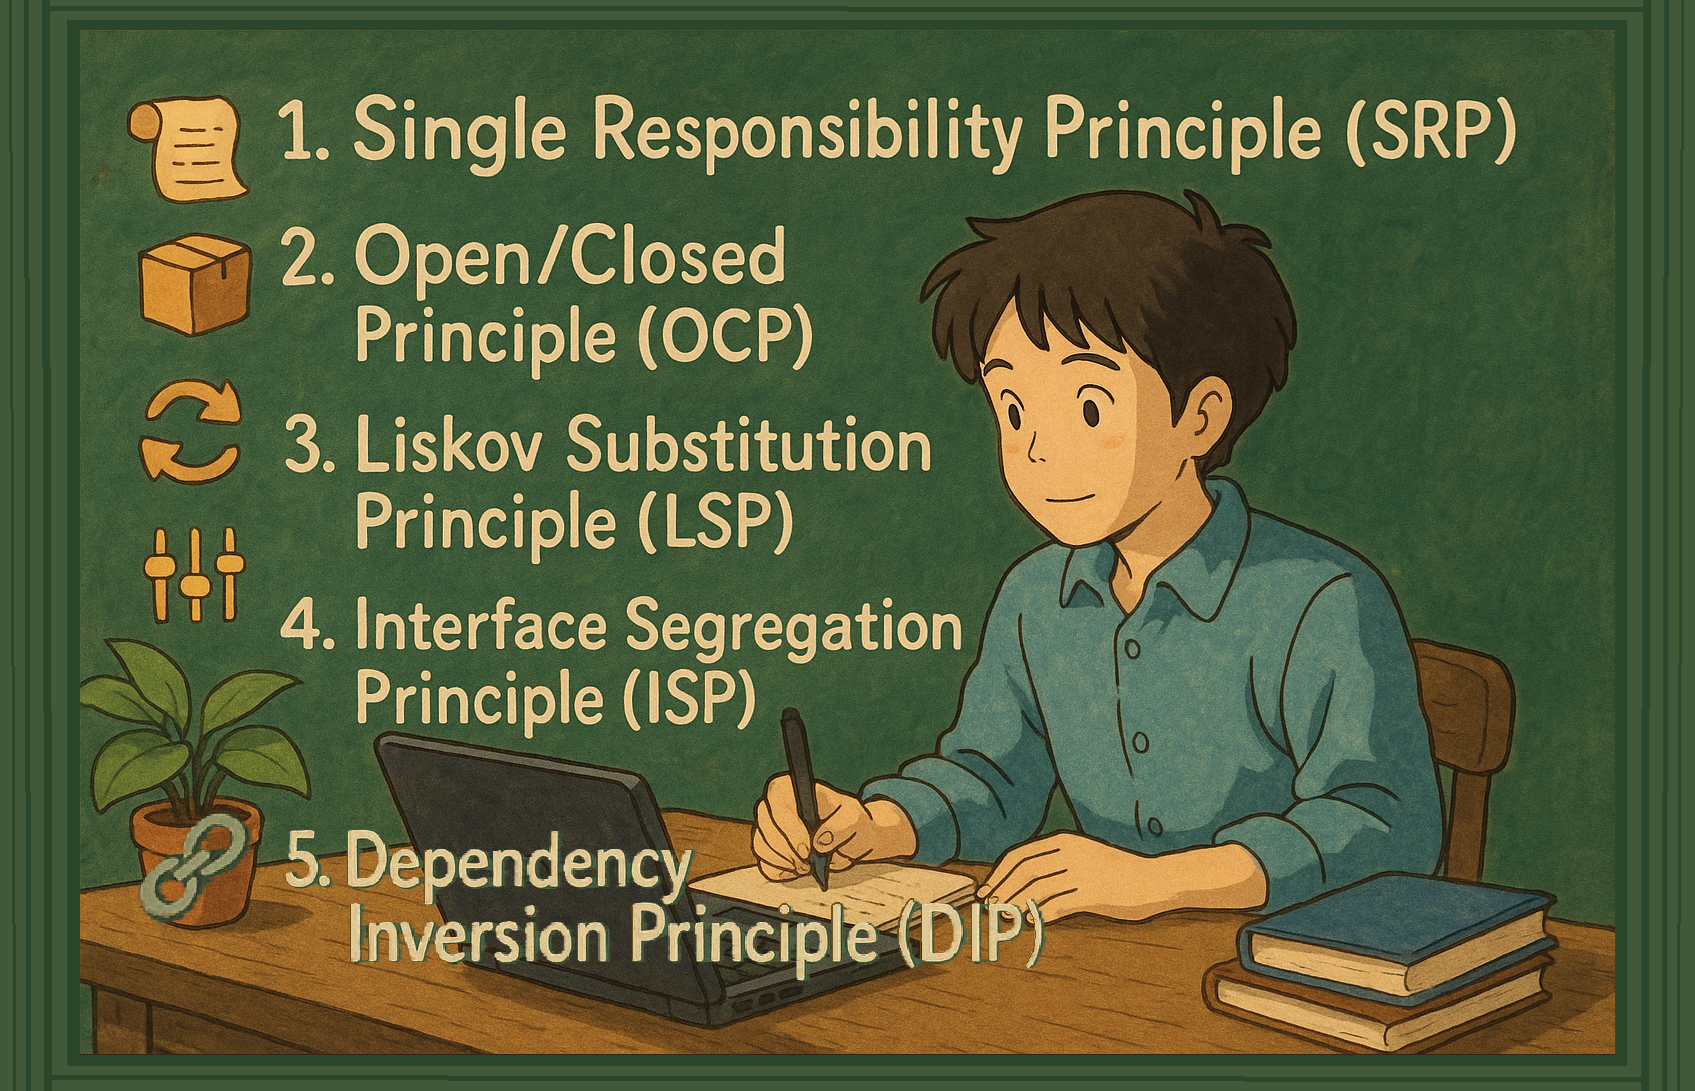
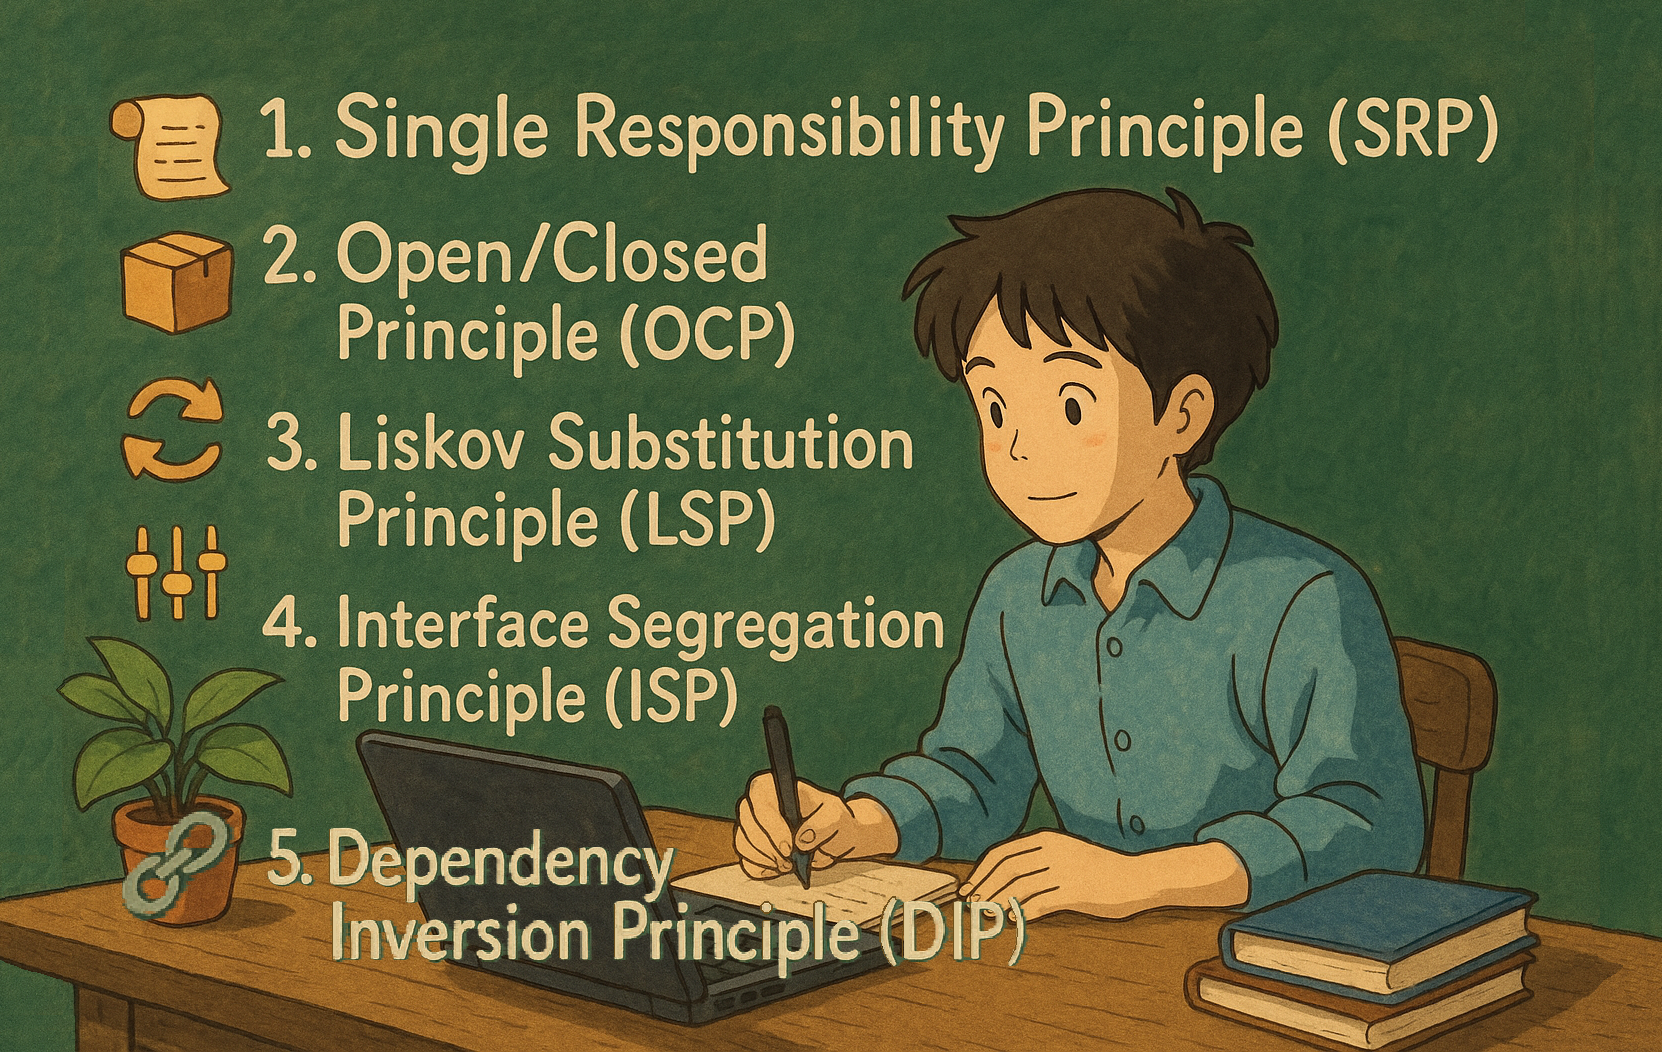
Create compressed version for the images to make blog.html lighter to load

diff --git a/content/blog/2024-10-04-optimizing-microfrontends-with-turborepo.md b/content/blog/2024-10-04-optimizing-microfrontends-with-turborepo.md
@@ -5,7 +5,7 @@ description = "Use Turborepo to improve microfrontend workflows with parallel ta
 [taxonomies]
 tags = ["architecture", "frontend"]
 [extra]
-cover_image = "/images/blog/2024-10-04-optimizing-microfrontends-with-turborepo/opt1.png"
+cover_image = "/images/blog/2024-10-04-optimizing-microfrontends-with-turborepo/opt1-comp.png"
 +++
 
 ![blog-cover](/images/blog/2024-10-04-optimizing-microfrontends-with-turborepo/opt1.png)

diff --git a/content/blog/2025-04-22-respond-to-mixin-pattern-scss.md b/content/blog/2025-04-22-respond-to-mixin-pattern-scss.md
@@ -5,7 +5,7 @@ description = "Learn how to simplify responsive design with a mobile-first appro
 [taxonomies]
 tags = ["frontend"]
 [extra]
-cover_image = "/images/blog/2025-04-22-respond-to-mixin-pattern-scss/respond-to-pattern-3.png"
+cover_image = "/images/blog/2025-04-22-respond-to-mixin-pattern-scss/respond-to-pattern-3-comp.png"
 +++
 
 ![blog-cover](/images/blog/2025-04-22-respond-to-mixin-pattern-scss/respond-to-pattern-3.png)

diff --git a/content/blog/2024-09-01-shared-styles-in-monorepo.md b/content/blog/2024-09-01-shared-styles-in-monorepo.md
@@ -5,7 +5,7 @@ description = "Approaches to maintain consistent styles across multiple projects
 [taxonomies]
 tags = ["frontend"]
 [extra]
-cover_image = "/images/blog/2024-09-01-shared-styles-in-monorepo/cover.png"
+cover_image = "/images/blog/2024-09-01-shared-styles-in-monorepo/cover-comp.png"
 +++
 
 ![blog-cover](/images/blog/2024-09-01-shared-styles-in-monorepo/cover.png)

diff --git a/content/blog/2024-11-22-solid-principles.md b/content/blog/2024-11-22-solid-principles.md
@@ -5,7 +5,7 @@ description = "Learn how SOLID principles can enhance your codebase by promoting
 [taxonomies]
 tags = ["architecture", "recommended"]
 [extra]
-cover_image = "/images/blog/2024-11-22-solid-principles/opt1.png"
+cover_image = "/images/blog/2024-11-22-solid-principles/opt1-comp.png"
 +++
 
 ![blog-cover](/images/blog/2024-11-22-solid-principles/opt1.png)

diff --git a/content/blog/2025-05-26-how-to-analyze-a-stock.md b/content/blog/2025-05-26-how-to-analyze-a-stock.md
@@ -6,7 +6,7 @@ date = 2025-05-26
 [taxonomies]
 tags = ["finance", "for beginners"]
 [extra]
-cover_image = "/images/blog/2025-05-26-how-to-analyze-a-stock/opt1.png"
+cover_image = "/images/blog/2025-05-26-how-to-analyze-a-stock/opt1-comp.png"
 +++
 
 ![blog-cover](/images/blog/2025-05-26-how-to-analyze-a-stock/opt1.png)

diff --git a/content/blog/2025-07-25-bitcoin.md b/content/blog/2025-07-25-bitcoin.md
@@ -6,7 +6,7 @@ date = 2025-07-25
 [taxonomies]
 tags = ["bitcoin", "finance"]
 [extra]
-cover_image = "/images/blog/2025-07-25-bitcoin/bitcoin-cover-3.png"
+cover_image = "/images/blog/2025-07-25-bitcoin/bitcoin-cover-3-comp.png"
 +++
 
 ![blog-cover](/images/blog/2025-07-25-bitcoin/bitcoin-cover-3.png)
